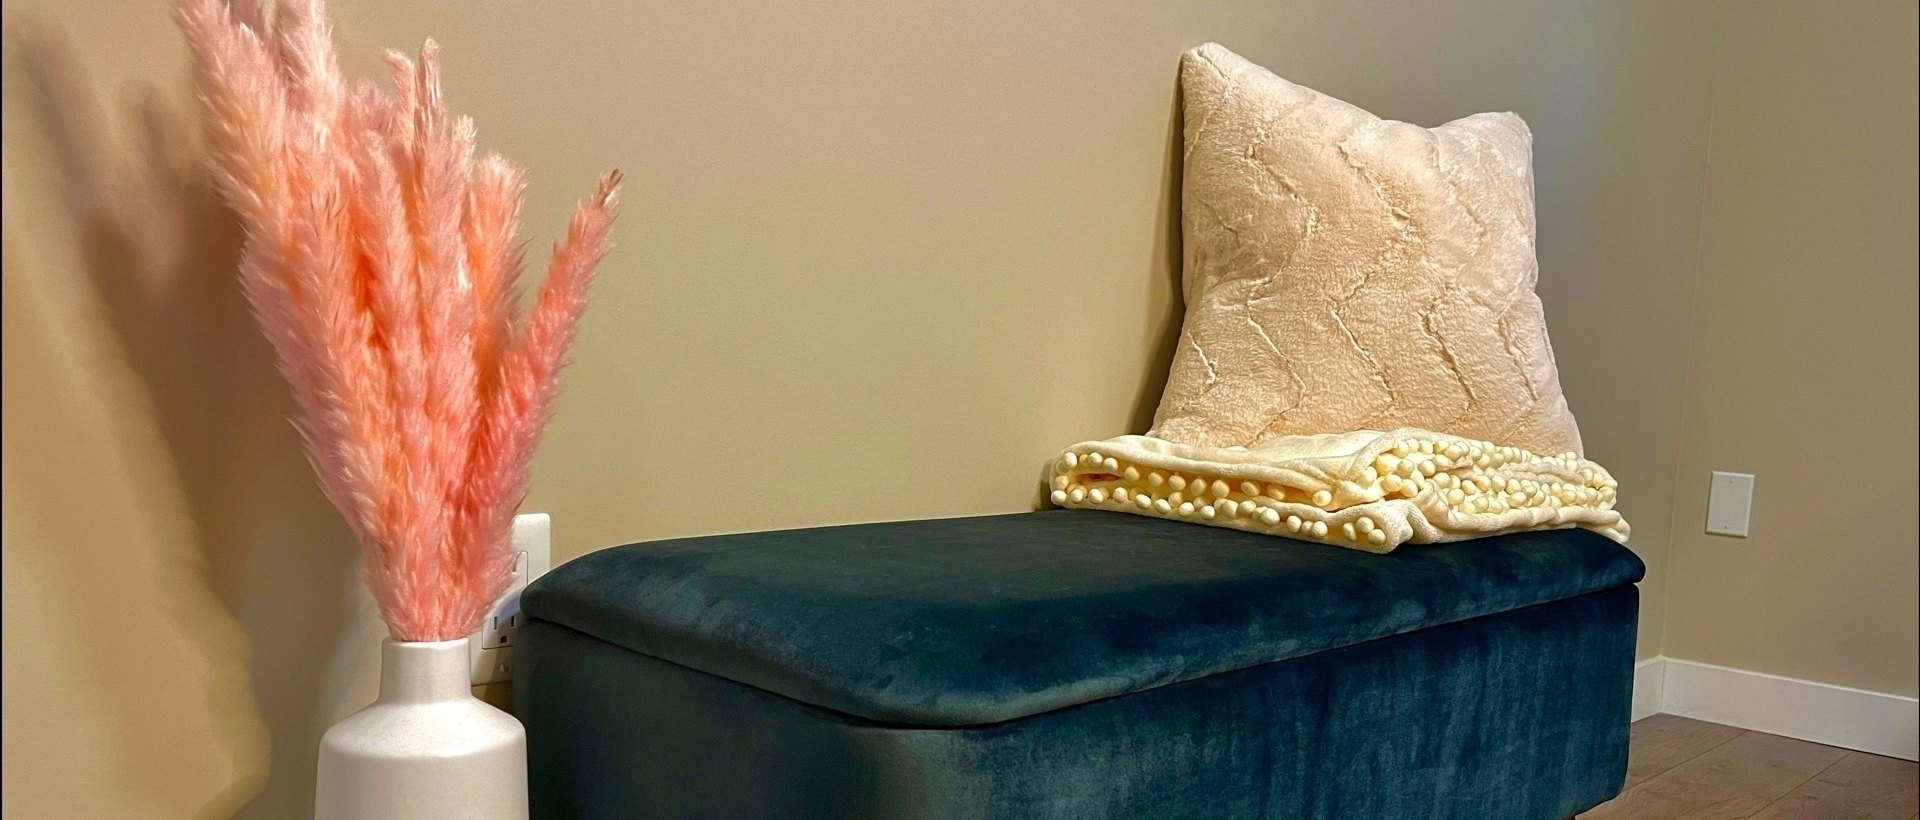
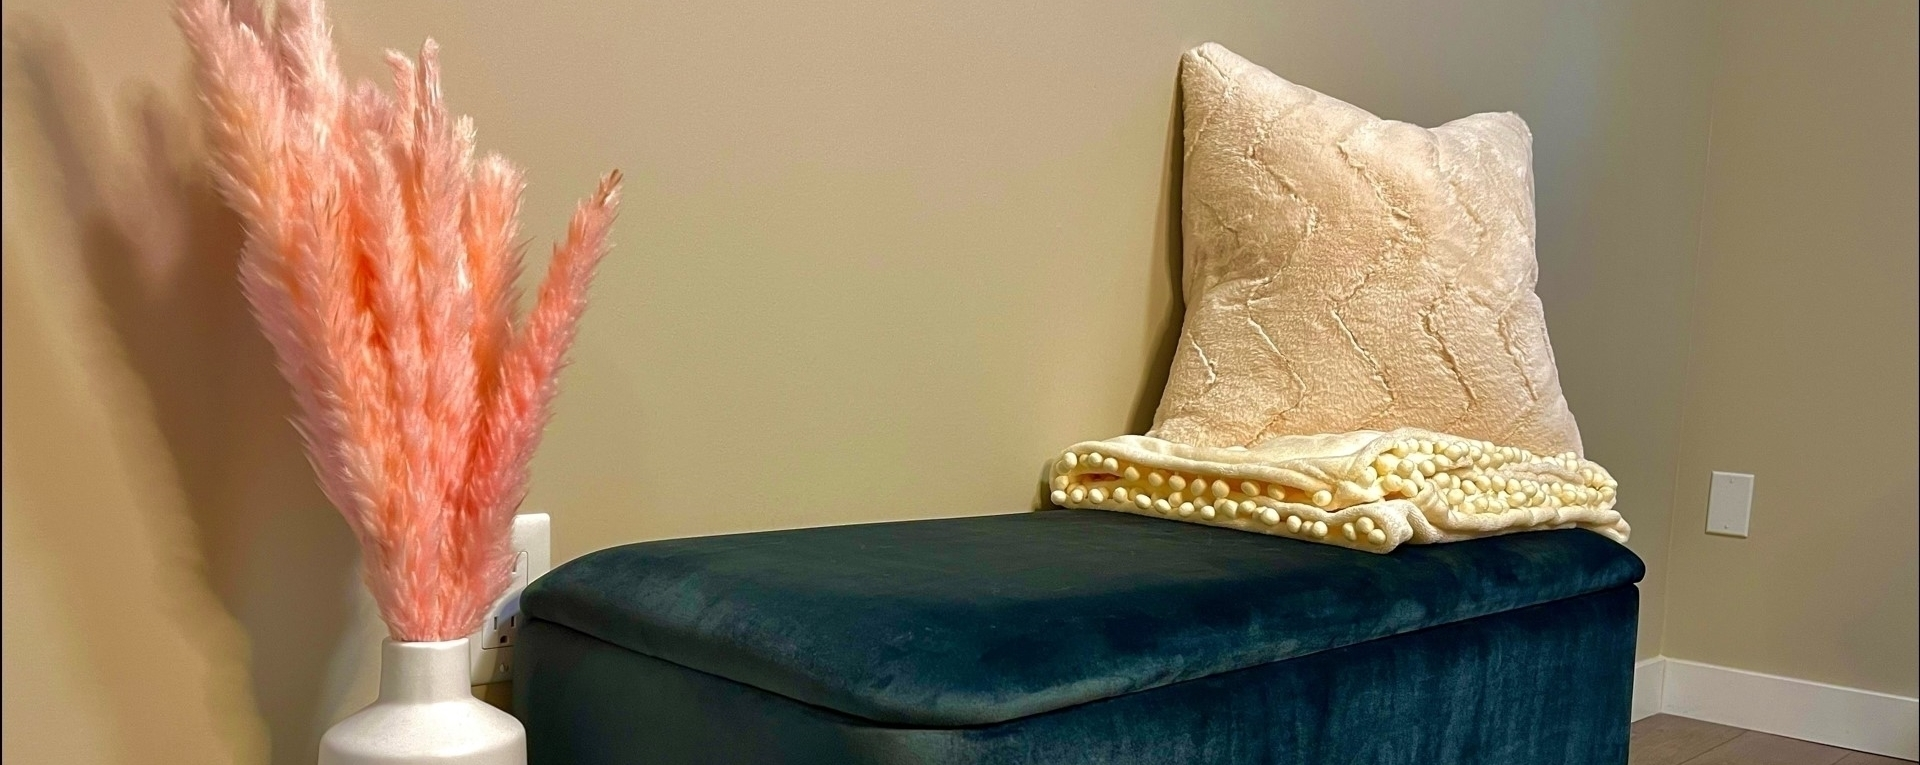
tweaked slider pics, title, and created faq section

diff --git a/Home.html b/Home.html
@@ -6,7 +6,7 @@
     <meta http-equiv="X-UA-Compatible" content="IE=edge">
     <meta name="viewport" content="width=device-width, initial-scale=1.0">
 
-    <title>LashLift YYC</title>
+    <title>The Lash Lab YYC</title>
 
     <link rel="stylesheet" href="https://maxcdn.bootstrapcdn.com/bootstrap/4.0.0/css/bootstrap.min.css"
         integrity="sha384-Gn5384xqQ1aoWXA+058RXPxPg6fy4IWvTNh0E263XmFcJlSAwiGgFAW/dAiS6JXm" crossorigin="anonymous">
@@ -63,7 +63,7 @@
 
         <div class="carousel-inner">
             <div class="carousel-item active">
-                <img id="bg" class="rounded mx-auto d-block" src="./Pictures/bg v2.jpg">
+                <img id="bg" class="rounded mx-auto d-block" src="./Pictures/slide1.jpg">
                 <div class="carousel-caption">
                     <h1 class="display-2">The LashLab YYC</h1>
                     <h3>Complete website layout</h3>
@@ -72,7 +72,7 @@
             </div>
 
             <div class="carousel-item">
-                <img src="./Pictures/lesspixel.png">
+                <img src="./Pictures/slide2.png">
             </div>
 
             <div class="carousel-item">
@@ -119,8 +119,8 @@
                 <div class="flip-card-inner">
                     <div class="flip-card-front">
                         <div class="col-md-12"></div>
-                        <i class="fab fa-affiliatetheme"> ~ $120 </i>
                         <h3>Keratin Lash Lift and Tint w/ 24k Gold and Keratin Lash Serum </h3>
+                        <h4 class="fab fa-affiliatetheme"> ~ $120 </h4>
                     </div>
                     <div class="flip-card-back">
                         <h3>backside 2</h3>
@@ -131,8 +131,8 @@
             <div class="col-xs-12 col-md-4 flip-card">
                 <div class="flip-card-inner">
                     <div id="service" class="flip-card-front">
-                        <i class="fab fa-affiliatetheme"> ~ $100</i>
                         <h3>Keratin Lash Lift w/ 24k Gold and Keratin Lash Serum </h3>
+                        <h4 class="fab fa-affiliatetheme"> ~ $100</h4>
                     </div>
                     <div class="flip-card-back">
                         <h3>backside 2</h3>
@@ -143,8 +143,8 @@
             <div class="col-xs-12 col-md-4 flip-card">
                 <div class="flip-card-inner ">
                     <div id="service" class="flip-card-front paint">
-                        <h4 class="fab fa-affiliatetheme"> ~ $100</h4>
                         <h3>Lash Lift and Tint w/ Hydration Serum</h3>
+                        <h4 class="fab fa-affiliatetheme"> ~ $100</h4>
                     </div>
                     <div class="flip-card-back">
                         <h3>backside 2</h3>
@@ -161,9 +161,9 @@
 
             <div class="col-xs-12 col-sm-6 col-md-5 flip-card">
                 <div class="flip-card-inner">
-                    <div class="flip-card-front">
-                        <i class="fab fa-affiliatetheme"> ~ $80</i>
+                    <div class="flip-card-front">   
                         <h3>Lash Lift w/ Hydration Serum</h3>
+                        <h4 class="fab fa-affiliatetheme"> ~ $80</h4>
                     </div>
                     <div class="flip-card-back">
                         <h3>backside 1</h3>
@@ -172,9 +172,9 @@
             </div>
             <div class="col-xs-12 col-sm-6 col-md-5 flip-card">
                 <div class="flip-card-inner">
-                    <div class="flip-card-front">
-                        <i class="fab fa-affiliatetheme"> ~ $30</i>
+                    <div class="flip-card-front">                        
                         <h3>Lash Tint</h3>
+                        <h4 class="fab fa-affiliatetheme"> ~ $30</h4>
                     </div>
                     <div class="flip-card-back">
                         <h3>backside 2</h3>
@@ -187,9 +187,50 @@
 
     <hr class="my-4">
 
-    <div class="container-fluid padding">
-        <div class="row text-center padding">
-            <h1>Frequently Asked Questions</h1>
+    <div class="container-fluid ">
+        <div class="row welcome text-center">
+
+            <div id="about" class="col-sm-12 col-md-12 col-lg-12">
+                <h1 class="display-5">Frequently Asked Questions</h1>
+            </div>
+
+            
+            <div id="faq" class="col-sm-12 col-md-12 col-lg-12">
+                <p>Q: What is a Lash Lift?</p>
+                <p>A lash lift is an enhancement that involves curling your eyelashes to achieve the appearance of a fuller lash line. It opens the eyes to make them look more refreshed and awake. The treatment lasts up to 8 weeks!</p>
+            </div>
+            <div id="faq" class="col-sm-12 col-md-12 col-lg-12">
+                <p>Q: What are our policies?</p>
+                <p>A: 24-hr notice to re-book an appointment. 15-min late is a cancelled appointment, and $20 will be charged at the next appointment. 48-hour notice must be given to cancel an appointment, otherwise $20 will be charged at the next appointment.</p>
+            </div>
+            <div id="faq" class="col-sm-12 col-md-12 col-lg-12">
+                <p>Q: What's the difference between our ultimate hydration lash lift and our keratin lash lift?</p>
+                <p>A: One treatement uses keratin and our 24-karot gloss that restores, nourishes and conditions. Resulting in soft and plump lashes! The ultimate lash lift treatment focuses mainly on hydration</p>
+            </div>
+            <div id="faq" class="col-sm-12 col-md-12 col-lg-12">
+                <p>Q: How long does it take to get a lash lift?</p>
+                <p>A: Our Keratin lash lift and tint takes approximately 1hr 30min, including a consultation. A lift with no tint takes a little less time. Click the book now button to see our service details!</p>
+            </div>
+            <div id="faq" class="col-sm-12 col-md-12 col-lg-12">
+                <p>Q: Who shouldn't get a lash lift?</p>
+                <p>A: Clients who have dermatitis, eczema, psoriasis around the eye area and who have sensitive/watery eyes are not suitable for a lash lift.</p>
+            </div>
+            <div id="faq" class="col-sm-12 col-md-12 col-lg-12">
+                <p>Q: Why is after care important?</p>
+                <p>A: Daily conditioning of your lashes after 48 hours prevents dehydration of your lashes. Do this with a lash serum preferably one with keratin as it can help promote growth and help keep the hair sealed. These are available at our studio!</p>
+            </div>
+            <div id="faq" class="col-sm-12 col-md-12 col-lg-12">
+                <p>Q: What are the benefits of a lash lift?</p>
+                <p>A: Some of the benefits include 6-8 weeks of lifted lashes, low maintenance, focused on natural lash growth, and opens up the eyes for a refreshed and awake look.</p>
+            </div>
+            <div id="faq" class="col-sm-12 col-md-12 col-lg-12">
+                <p>Q: </p>
+                <p>A: </p>
+            </div>
+            <div id="faq" class="col-sm-12 col-md-12 col-lg-12">
+                <p>Q: </p>
+                <p>A: </p>
+            </div>
 
         </div>
     </div>
@@ -281,22 +322,13 @@
                 <div class="col-12">
                     <hr class="light">
                     <h5><a href="#top">&copy; TheLashLabYYC.com</a></h5>
+                    <h5><a href="#top">&copy; AHS Approved Studio</a></h5>
                 </div>
 
             </div>
         </div>
     </footer>
 
-    <script src="home.js"></script>
-
-    <!-- 
-        1. Need to do the service card flip thing. try to do it with JS. If not then its ok
-        2. Google api to implement the google reviews
-        3. Make a good form page so that the email goes directly to jeevan.
-        4. SEO
-        5. do the social media thing where it full sup the thing
-    
-    -->
 </body>
 
 </html>

diff --git a/home.js b/home.js
@@ -1,3 +1,6 @@
 // js maybe some react or angular where it can be applied. replace 
 //find something thick and heavy for the fonts 
 // google analytics 
+// mobile version
+// api for reviews
+// Serach engine optimization
